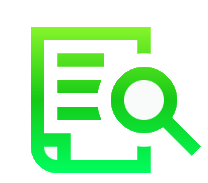
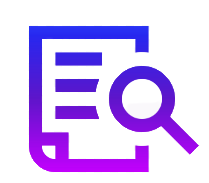
change colors

diff --git a/src/index.css b/src/index.css
@@ -16,12 +16,18 @@ body {
 	--main-background-color: linear-gradient(
 		267deg,
 		rgb(43, 167, 101) 1%,
-		rgba(60, 145, 31, 1) 25%,
-		rgb(91, 174, 39) 86%
+		rgb(33, 151, 112) 25%,
+		rgb(60, 187, 132) 86%
 	);
 	--text-color1: rgb(244, 243, 238);
-	--text-color2: #4ec046;
+	--text-color2: #2a9f6c;
 	--text-color-hover: rgb(233, 219, 19);
+	--text-color-hover1: rgb(135, 29, 216);
+	--main-btn-color: linear-gradient(
+		267deg,
+		rgb(118, 13, 199) 25%,
+		rgb(159, 22, 228) 86%
+	);
 }
 h2 {
 	text-align: center;
@@ -58,11 +64,10 @@ h2 {
 	transition: background 0.3s;
 }
 .greenBtn {
-	background: var(--main-background-color);
+	background: var(--main-btn-color);
 	transition: color 0.3s background 0.3s;
 }
 .greenBtn:hover {
-	/* background: #2b8f24; */
 	color: var(--text-color-hover);
 }
 .greyBtn {

diff --git a/src/components/UI/Navbar.tsx b/src/components/UI/Navbar.tsx
@@ -26,9 +26,11 @@ const Navbar = () => {
 						<li>
 							<Link to='/planytreningowe'>Plany treningowe</Link>
 						</li>
-						<li>
-							<Link to='/profile'>Mój profil</Link>
-						</li>
+						{username && (
+							<li>
+								<Link to='/profile'>Mój profil</Link>
+							</li>
+						)}
 						{username ? (
 							<li>
 								<Link to='/' onClick={sendLogout}>
@@ -58,9 +60,11 @@ const Navbar = () => {
 						<li>
 							<Link to='/planytreningowe'>Plany treningowe</Link>
 						</li>
-						<li>
-							<Link to='/profile'>Mój profil</Link>
-						</li>
+						{username && (
+							<li>
+								<Link to='/profile'>Mój profil</Link>
+							</li>
+						)}
 						{username ? (
 							<li>
 								<Link to='/' onClick={sendLogout}>

diff --git a/src/css/TrainingScreen.css b/src/css/TrainingScreen.css
@@ -20,7 +20,7 @@
 .trainingScreen input {
 	font-size: 1rem;
 	padding: 0.2rem;
-	border: 1px solid green;
+	border: 1px solid rgb(107, 10, 177);
 	border-radius: 5px;
 }
 .trainingScreen__info {
@@ -91,7 +91,7 @@
 	border-radius: 5px;
 	cursor: pointer;
 	transition: color 0.3s;
-	background: var(--main-background-color);
+	background: var(--main-btn-color);
 	color: var(--text-color1);
 }
 .trainingScreen__exerciesList-box-btn button {

diff --git a/src/components/screens/MyPlansScreen.tsx b/src/components/screens/MyPlansScreen.tsx
@@ -59,7 +59,7 @@ const MyPlansScreen = () => {
 				<div className='myPlans__box-newplan'>
 					<h4>Utwórz nowy zestaw</h4>
 					<button>
-						<img src='../../img/plus.PNG' />
+						<img src='../../img/plus.png' />
 					</button>
 				</div>
 			</div>

diff --git a/src/css/AddNewExercise.css b/src/css/AddNewExercise.css
@@ -45,7 +45,7 @@
 	cursor: pointer;
 	transition: color 0.3s;
 	white-space: nowrap;
-	background: var(--main-background-color);
+	background: var(--main-btn-color);
 	color: var(--text-color1);
 }
 .addNewExercise__btn:hover {

diff --git a/src/css/TrainingStoryScreen.css b/src/css/TrainingStoryScreen.css
@@ -21,8 +21,8 @@
 	background: var(--main-background-color);
 	padding: 0.5rem;
 	font-size: 1.2rem;
-	font-weight: bold;
 	border-radius: 5px;
+	color: aliceblue;
 }
 .trainingStory__tabel-tbody {
 	padding: 0.5rem;

diff --git a/src/components/UI/exercise.css b/src/components/UI/exercise.css
@@ -12,7 +12,7 @@
 }
 .exerciesList__exercie a:hover {
 	font-weight: bold;
-	color: var(--text-color2);
+	color: var(--text-color-hover1);
 }
 .exerciesList__name {
 	display: flex;

diff --git a/src/css/TrainingPlansScreen.css b/src/css/TrainingPlansScreen.css
@@ -39,7 +39,7 @@
 	font-weight: bold;
 }
 .trainingPlansScreen__box a:hover {
-	color: var(--text-color2);
+	color: var(--text-color-hover1);
 	font-weight: bold;
 }
 

diff --git a/src/css/AtlasScreen.css b/src/css/AtlasScreen.css
@@ -39,5 +39,5 @@
 }
 
 .atlas__category-exerciseBox a:hover > .atlas__category-exerciseBox-title {
-	color: green;
+	color: var(--text-color2);
 }

diff --git a/src/auth/public.css b/src/auth/public.css
@@ -19,7 +19,7 @@
 }
 
 span {
-	color: var(--text-color2);
+	color: var(--text-color-hover1);
 }
 .public__welcomeText p {
 	font-size: 1.5rem;
